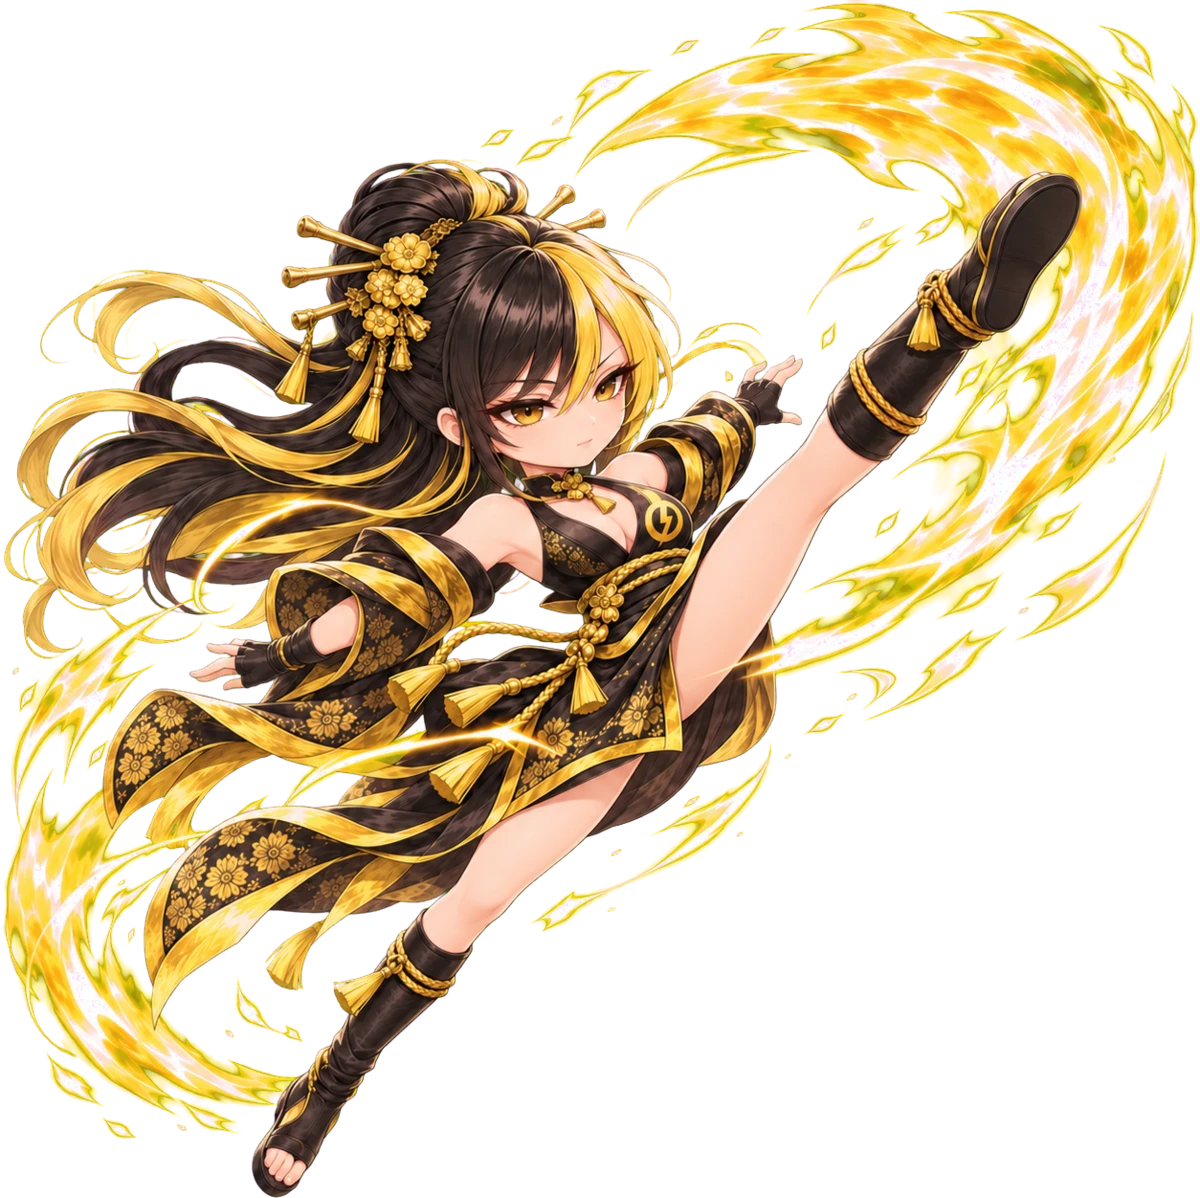
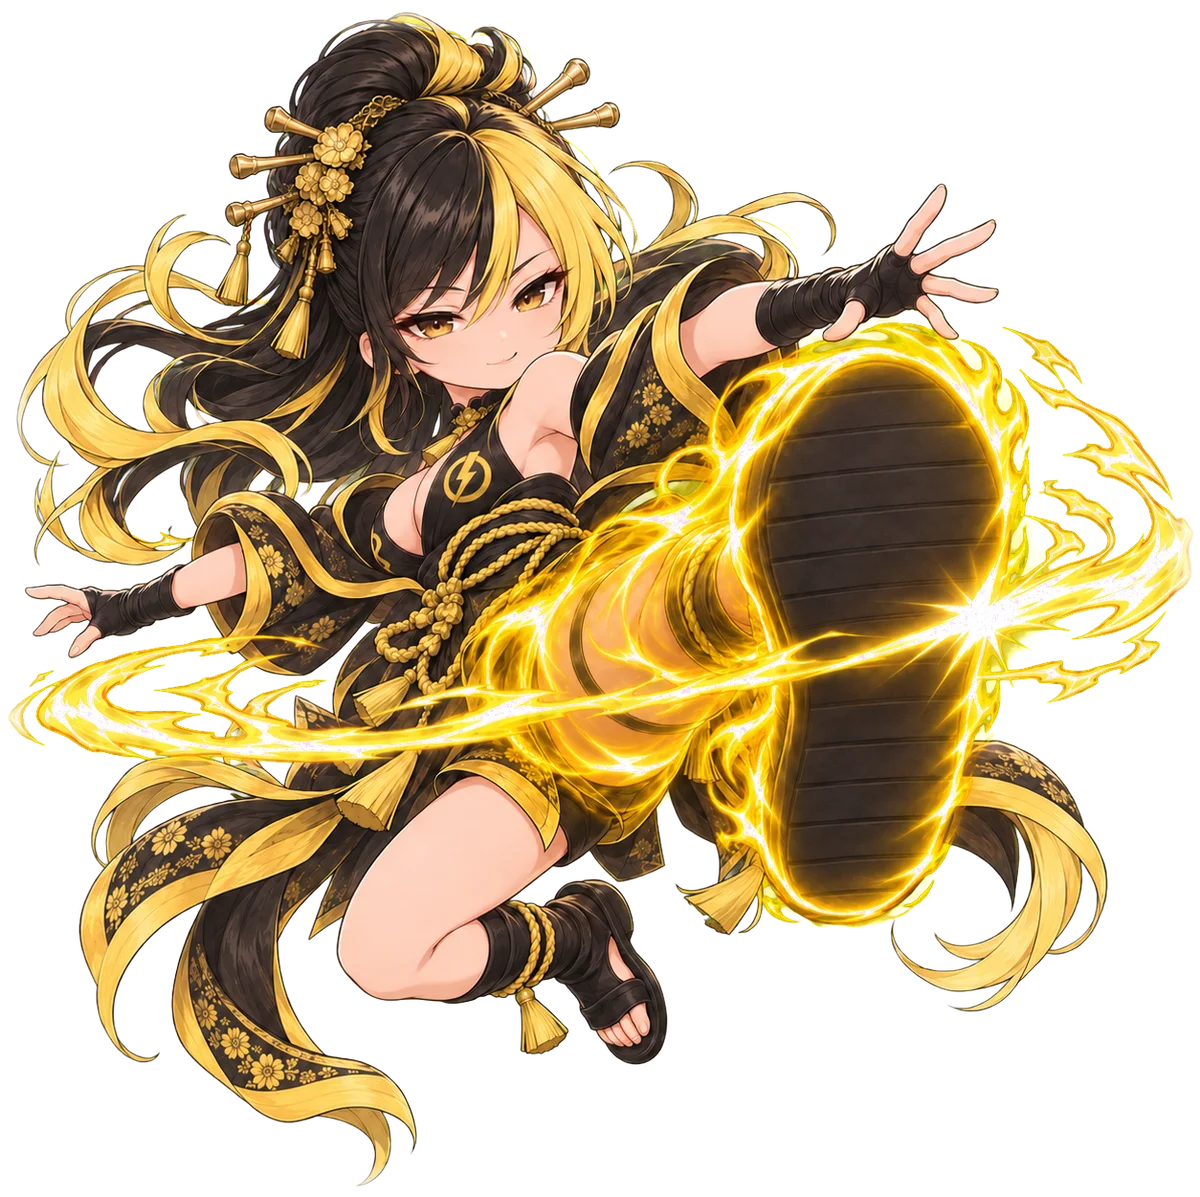
feat: コンボの蹴り上げを、溜めから旋回する左脚の蹴りと着地の2コマに描き直す
回し蹴りの溜めのあと、脚がいきなり真上へ跳ね上がるのが唐突だった。

6は、溜めで横へ伸ばした左脚が真横に旋回し、足の裏をこちらへ向けて叩き込む瞬間にした。左脚は印と同じ金のオーラで包んだ。7は、回転を止めて着地し、印へ向けて手を寄せる絵にした。

1周が11コマから12コマになったので、巡回するコマ数を12にした。

diff --git a/Tests/JinraiCoreTests/JinraiModeTests.swift b/Tests/JinraiCoreTests/JinraiModeTests.swift
@@ -5,15 +5,15 @@ import Testing
 
 @Suite("JinraiModeLogic")
 struct JinraiModeLogicTests {
-    @Test("コンボ画像 index: 0 は開始、1〜11 を巡回")
+    @Test("コンボ画像 index: 0 は開始、1〜12 を巡回")
     func comboImageIndex() {
         #expect(JinraiModeLogic.comboImageIndex(count: 0) == 0)
         #expect(JinraiModeLogic.comboImageIndex(count: -1) == 0)
         #expect(JinraiModeLogic.comboImageIndex(count: 1) == 1)
-        #expect(JinraiModeLogic.comboImageIndex(count: 11) == 11)
-        #expect(JinraiModeLogic.comboImageIndex(count: 12) == 1)
-        #expect(JinraiModeLogic.comboImageIndex(count: 22) == 11)
-        #expect(JinraiModeLogic.comboImageIndex(count: 23) == 1)
+        #expect(JinraiModeLogic.comboImageIndex(count: 12) == 12)
+        #expect(JinraiModeLogic.comboImageIndex(count: 13) == 1)
+        #expect(JinraiModeLogic.comboImageIndex(count: 24) == 12)
+        #expect(JinraiModeLogic.comboImageIndex(count: 25) == 1)
     }
 
     @Test("ユーザー指定コンボ画像 index: 0 は開始、1... を巡回")

diff --git a/Sources/JinraiCore/JinraiModeLogic.swift b/Sources/JinraiCore/JinraiModeLogic.swift
@@ -6,11 +6,11 @@ public enum JinraiModeLogic {
     /// アニメーションの1ステップ間隔(元 0.02s の doEvery)
     public static var animationInterval: Double { 0.02 }
 
-    /// 同梱のコンボ画像のうち、巡回するコマ数(jinrai1〜11.webp)
-    public static let bundledComboFrameCount = 11
+    /// 同梱のコンボ画像のうち、巡回するコマ数(jinrai1〜12.webp)
+    public static let bundledComboFrameCount = 12
 
-    /// コンボ数 → キャラクター画像 index(jinrai0〜11.webp)。
-    /// 0 は開始直後、1〜11 をコンボ数で巡回
+    /// コンボ数 → キャラクター画像 index(jinrai0〜12.webp)。
+    /// 0 は開始直後、1〜12 をコンボ数で巡回
     public static func comboImageIndex(count: Int) -> Int {
         count <= 0 ? 0 : ((count - 1) % bundledComboFrameCount) + 1
     }
